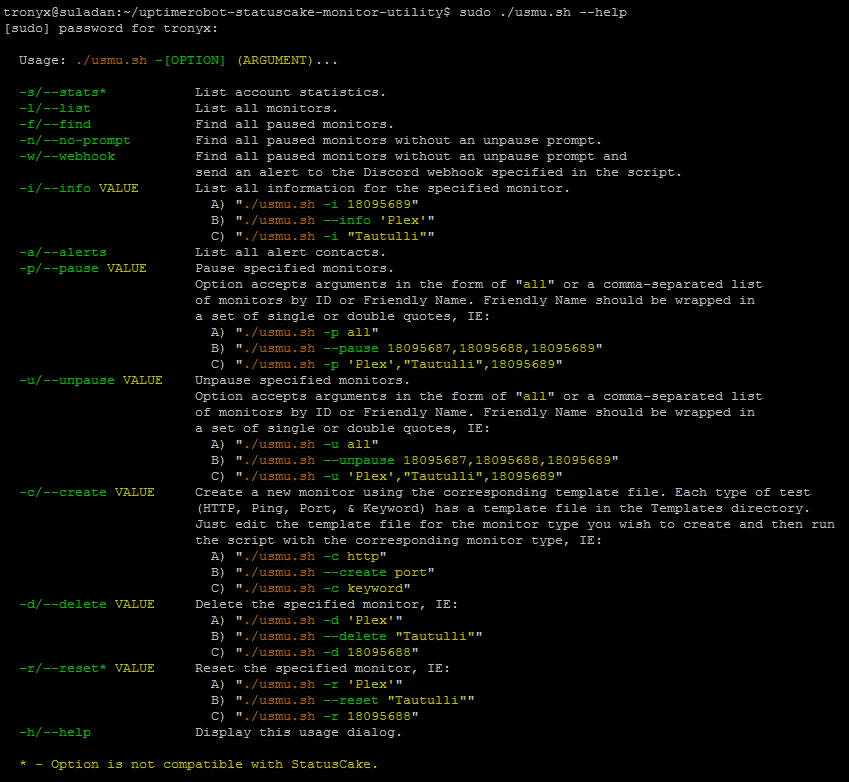
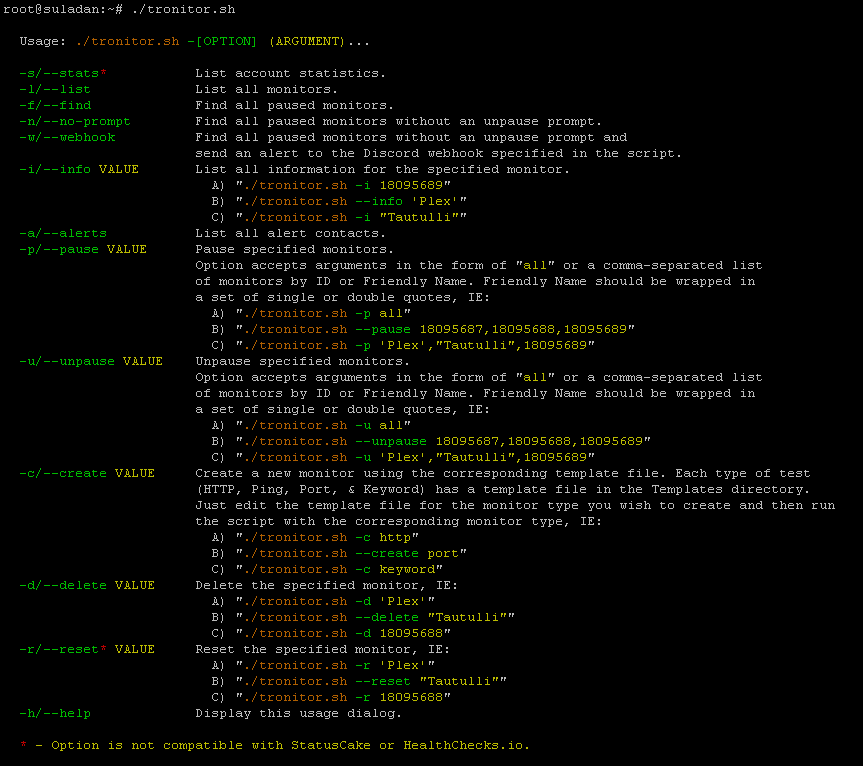
Updates for rename

diff --git a/README.md b/README.md
@@ -1,15 +1,16 @@
-# USMU (UptimeRobot/StatusCake Monitor Utility)
+# Tronitor
 
 [![GitHub](https://img.shields.io/github/license/mashape/apistatus.svg)](https://github.com/christronyxyocum/uptimerobot-statuscake-monitor-utility/blob/develop/LICENSE.md) [![Average time to resolve an issue](http://isitmaintained.com/badge/resolution/christronyxyocum/uptimerobot-statuscake-monitor-utility.svg)](http://isitmaintained.com/project/christronyxyocum/uptimerobot-statuscake-monitor-utility "Average time to resolve an issue") [![Percentage of issues still open](http://isitmaintained.com/badge/open/christronyxyocum/uptimerobot-statuscake-monitor-utility.svg)](http://isitmaintained.com/project/christronyxyocum/uptimerobot-statuscake-monitor-utility "Percentage of issues still open")
 
 [![Codacy Badge](https://api.codacy.com/project/badge/Grade/da395757a07e45e9a57f8e23bd9aa614)](https://www.codacy.com/app/christronyxyocum/uptimerobot-statuscake-monitor-utility?utm_source=github.com&amp;utm_medium=referral&amp;utm_content=christronyxyocum/uptimerobot-statuscake-monitor-utility&amp;utm_campaign=Badge_Grade) [![Travis (.org) branch](https://img.shields.io/travis/rust-lang/rust/master.svg?logo=travis)](https://travis-ci.org/christronyxyocum/uptimerobot-statuscake-monitor-utility) [![codecov.io](https://codecov.io/gh/christronyxyocum/uptimerobot-statuscake-monitor-utility/branch/develop/graphs/badge.svg?branch=develop)](http://codecov.io/github/christronyxyocum/uptimerobot-statuscake-monitor-utility?branch=develop) [![made-with-bash](https://img.shields.io/badge/Made%20with-Bash-1f425f.svg)](https://www.gnu.org/software/bash/)
 
-A bash script to work with [UptimeRobot](https://uptimerobot.com) and [StatusCake](https://www.statuscake.com) monitors via their respective APIs. It checks to make sure that the API key, and username for StatusCake, that you provided is valid before performing any requested operations.
+A bash script to work with [UptimeRobot](https://uptimerobot.com), [StatusCake](https://www.statuscake.com), and [HealthChecks.io](https://healthchecks.io) monitors via their respective APIs. It checks to make sure that the API key, and username for StatusCake, that you provided is valid before performing any requested operations.
 
 ## Package Requirements
+
 ### cURL
 
-cURL is required for the script to function as it submits API calls to UptimeRobot and StatusCake. If it is not installed before you execute the script most, if not all, operations will fail.
+cURL is required for the script to function as it's used to submit API calls . If it is not installed before you execute the script most, if not all, operations will fail.
 
 ### JQ
 
@@ -21,7 +22,7 @@ It is recommended that you also install the JQ package as the script uses it to 
 jq='true'
 ```
 
-Installing on Ubuntu Server 18.04.1:
+Installing on Ubuntu Server 18.04:
 
 ```bash
 tronyx@suladan:~$ sudo apt install jq
@@ -75,7 +76,7 @@ tronyx@suladan:~$ cd uptimerobot-statuscake-monitor-utility
 tronyx@suladan:~/uptimerobot-statuscake-monitor-utility$ chmod a+x usmu.sh
 ```
 
-Finally, open the script with your favorite text editor and add your provider's name (either UptimeRobot or StatusCake), your API key, and, if using StatusCake, your account username. If you forget this step the script will prompt you to enter all three:
+Finally, open the script with your favorite text editor and add your provider's name (either UptimeRobot, StatusCake, or HealthChecks), your API key, and, if using StatusCake, your account username. If you forget this step the script will prompt you to enter all three:
 
 ![User Data Prompt](/Images/user_data.png)
 
